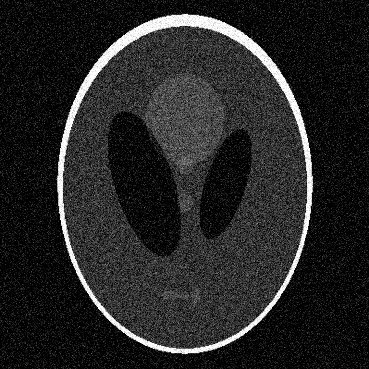
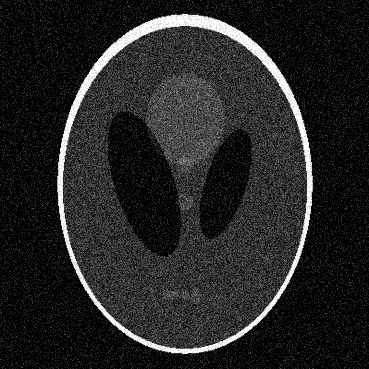
added edge rmse (temp)

diff --git a/models/FBP_noise.py b/models/FBP_noise.py
@@ -43,6 +43,23 @@ def FBP_window_solver(A, b, num_iterations=10, lambda_val=1.0, window_strength=0
 
     return x
 
+
+def edge_rmse(ref, recon):
+    sobel_ref_x = cv.Sobel(ref.astype(np.float32), cv.CV_64F, 1, 0, ksize=3)
+    sobel_ref_y = cv.Sobel(ref.astype(np.float32), cv.CV_64F, 0, 1, ksize=3)
+    edge_ref = np.sqrt(sobel_ref_x**2 + sobel_ref_y**2)
+
+    sobel_recon_x = cv.Sobel(recon.astype(np.float32), cv.CV_64F, 1, 0, ksize=3)
+    sobel_recon_y = cv.Sobel(recon.astype(np.float32), cv.CV_64F, 0, 1, ksize=3)
+    edge_recon = np.sqrt(sobel_recon_x**2 + sobel_recon_y**2)
+
+    edge_ref_norm = (edge_ref - np.min(edge_ref)) / (np.max(edge_ref) - np.min(edge_ref))
+    edge_recon_norm = (edge_recon - np.min(edge_recon)) / (np.max(edge_recon) - np.min(edge_recon))
+
+    rmse_edges = np.sqrt(np.mean((edge_ref_norm - edge_recon_norm)**2))
+    return rmse_edges
+
+
 def compute_rmse(a, b):
     return np.sqrt(np.mean((a - b)**2))
 
@@ -55,6 +72,7 @@ phantom = phantom.astype(np.float32) / 255.0
 ref = cv.resize(phantom, (n, n), interpolation=cv.INTER_AREA).flatten()
 ref_norm = (ref - np.min(ref)) / (np.max(ref) - np.min(ref))
 
+solver_iterations = 25
 w_iterations = [0, 1, 2, 3, 4, 5, 6, 7, 8, 9, 10, 11, 12, 13, 14, 15, 16, 17, 18, 19, 20, 21, 22, 23, 24, 25]
 w_strengths = [0.1, 0.2, 0.3, 0.4, 0.5, 0.6, 0.7, 0.8, 0.9, 1.0]
 
@@ -71,10 +89,10 @@ x_ref_corrected = np.flipud(x_ref.reshape(n, n)).flatten()
 x_ref_corrected = x_ref_corrected.astype(float)
 x_ref_norm = (x_ref_corrected - np.min(x_ref_corrected)) / (np.max(x_ref_corrected) - np.min(x_ref_corrected))
 
-sigmas = [0, 0.05, 0.1, 0.15]
+sigmas = [0, 0.05, 0.1]
 
-fig_imgs, axes_imgs = plt.subplots(2, len(sigmas), figsize=(3*len(sigmas), 7))
-fig_heatmaps, axes_heatmaps = plt.subplots(1, len(sigmas), figsize=(3*len(sigmas), 4))
+fig_imgs, axes_imgs = plt.subplots(3, len(sigmas), figsize=(3*len(sigmas), 10))
+fig_heatmaps, axes_heatmaps = plt.subplots(2, len(sigmas), figsize=(3*len(sigmas), 8))
 
 for i, sigma in enumerate(sigmas):
     noisy_image = phantom + np.random.normal(0, sigma, phantom.shape)
@@ -83,6 +101,7 @@ for i, sigma in enumerate(sigmas):
 
 
     rmses = np.zeros((len(w_iterations), len(w_strengths)))
+    edge_rmses = np.zeros((len(w_iterations), len(w_strengths)))
 
 
     fan_list = fan_setup(np.pi/4, no_beams=128)
@@ -94,29 +113,43 @@ for i, sigma in enumerate(sigmas):
                            resize=n)
 
     best_rmse = None
+    best_edge_rmse = None
     best_params = None
+    best_params_edge = None
 
     # Parameter sweep for window strength and iterations
     for j, w_iter in enumerate(w_iterations):
         for k, w_str in enumerate(w_strengths):
-            x_fbp = FBP_window_solver(A, b, num_iterations=25, lambda_val=0.8, window_strength=w_str, window_iterations=w_iter)
+            x_fbp = FBP_window_solver(A, b, num_iterations=solver_iterations, lambda_val=0.8, window_strength=w_str, window_iterations=w_iter)
             x_fbp_image = np.flipud(x_fbp.reshape(n, n))
             x_norm = (x_fbp_image - np.min(x_fbp_image)) / (np.max(x_fbp_image) - np.min(x_fbp_image))
             #x_norm = x_norm ** 1.5
             rmse = compute_rmse(ref_norm.flatten(), x_norm.flatten())
             rmses[j, k] = rmse
-            print(f"Window Iterations: {w_iter}, Window Strength: {w_str}, RMSE: {rmse:.4f}")
+            rmse_edg = edge_rmse(x_ref_norm.reshape(n, n), x_norm.reshape(n, n))
+            edge_rmses[j, k] = rmse_edg
+            print(f"Window Iterations: {w_iter}, Window Strength: {w_str}, RMSE: {rmse:.4f}, Edge RMSE: {rmse_edg:.4f}")
             if best_rmse is None or rmse < best_rmse:
                 best_rmse = rmse
                 best_params = (w_iter, w_str)
+            if best_edge_rmse is None or rmse_edg < best_edge_rmse:
+                best_edge_rmse = rmse_edg
+                best_params_edge = (w_iter, w_str)
 
     print(f"Best RMSE: {best_rmse:.4f} with parameters: {best_params}")
+    print(f"Best Edge RMSE: {best_edge_rmse:.4f} with parameters: {best_params_edge}")
 
     optimal_w_iter, optimal_w_str = best_params
-    x_fbp_optimal = FBP_window_solver(A, b, num_iterations=25, lambda_val=0.8, window_strength=optimal_w_str, window_iterations=optimal_w_iter)
+    x_fbp_optimal = FBP_window_solver(A, b, num_iterations=solver_iterations, lambda_val=0.8, window_strength=optimal_w_str, window_iterations=optimal_w_iter)
     x_fbp_image_optimal = np.flipud(x_fbp_optimal.reshape(n, n))
     x_norm_optimal = (x_fbp_image_optimal - np.min(x_fbp_image_optimal)) / (np.max(x_fbp_image_optimal) - np.min(x_fbp_image_optimal))
     x_norm_optimal = x_norm_optimal ** 1.5
+
+    optimal_w_iter_edge, optimal_w_str_edge = best_params_edge
+    x_fbp_optimal_edge = FBP_window_solver(A, b, num_iterations=solver_iterations, lambda_val=0.8, window_strength=optimal_w_str_edge, window_iterations=optimal_w_iter_edge)
+    x_fbp_image_optimal_edge = np.flipud(x_fbp_optimal_edge.reshape(n, n))
+    x_norm_optimal_edge = (x_fbp_image_optimal_edge - np.min(x_fbp_image_optimal_edge)) / (np.max(x_fbp_image_optimal_edge) - np.min(x_fbp_image_optimal_edge))
+    x_norm_optimal_edge = x_norm_optimal_edge ** 1.5
 
 
     axes_imgs[0,i].imshow(noisy_image, cmap='gray')
@@ -131,23 +164,33 @@ for i, sigma in enumerate(sigmas):
          ha='center', va='center', transform=axes_imgs[1,i].transAxes)
     axes_imgs[1,i].axis('off')
 
-    ax = axes_heatmaps[i]
-    im = ax.imshow(rmses, cmap='hot', 
-                   extent=[min(w_strengths), max(w_strengths), max(w_iterations), min(w_iterations)],
-                   aspect='auto',
-                   )
-    ax.set_title(f"σ={sigma}")
-    ax.set_xlabel("Window Strength")
-    ax.set_ylabel("Window Iterations")
-    fig_heatmaps.colorbar(im, ax=ax)
+    axes_imgs[2,i].imshow(x_norm_optimal_edge, cmap='gray')
+    axes_imgs[2,i].set_title('FBP Reconstruction (Edge-Optimized)')
+    axes_imgs[2,i].text(0.5, -0.15, f'Edge RMSE: {best_edge_rmse:.4f}\n Window Iterations: {optimal_w_iter_edge}\n Window Strength: {optimal_w_str_edge}', 
+         ha='center', va='center', transform=axes_imgs[2,i].transAxes)
+    axes_imgs[2,i].axis('off')
 
-    '''
-    axes_heatmaps[i].imshow(rmses, cmap='hot', extent=[min(w_strengths), max(w_strengths), max(w_iterations), min(w_iterations)], aspect='auto')
-    axes_heatmaps[i].set_title('RMSE Heatmap')
-    axes_heatmaps[i].set_xlabel('Window Strength')
-    axes_heatmaps[i].set_ylabel('Window Iterations')
-    axes_heatmaps[i].colorbar(label='RMSE')
-    '''
+    ax0 = axes_heatmaps[0,i]
+    im = ax0.imshow(rmses, cmap='hot', 
+                    extent=[min(w_strengths), max(w_strengths), max(w_iterations), min(w_iterations)],
+                    aspect='auto',
+                    )
+    ax0.set_title(f"σ={sigma}")
+    ax0.set_xlabel("Window Strength")
+    ax0.set_ylabel("Window Iterations")
+    
+    ax1 = axes_heatmaps[1,i]
+    im_edge = ax1.imshow(edge_rmses, cmap='hot',
+                    extent=[min(w_strengths), max(w_strengths), max(w_iterations), min(w_iterations)],
+                    aspect='auto',
+                    )
+    ax1.set_xlabel("Window Strength")
+    ax1.set_ylabel("Window Iterations")
+    fig_heatmaps.colorbar(im, ax=ax0)
+    fig_heatmaps.colorbar(im_edge, ax=ax1)
+
+
+   
     
 plt.tight_layout()
 fig_imgs.suptitle("Noisy Phantoms and FBP Reconstructions", fontsize=16)

diff --git a/models/FBP.py b/models/FBP.py
@@ -2,6 +2,7 @@ import numpy as np
 import cv2 as cv
 import matplotlib.pyplot as plt
 from fixed_model_new import fan_setup, ring_thing, ART_solver
+from scipy import ndimage
 
 def FBP_window_solver(A, b, num_iterations=10, lambda_val=1.0, window_strength=0.5, window_iterations=5):
     """
@@ -43,6 +44,22 @@ def FBP_window_solver(A, b, num_iterations=10, lambda_val=1.0, window_strength=0
 
     return x
 
+
+def edge_rmse(ref, recon):
+    sobel_ref_x = cv.Sobel(ref.astype(np.float32), cv.CV_64F, 1, 0, ksize=3)
+    sobel_ref_y = cv.Sobel(ref.astype(np.float32), cv.CV_64F, 0, 1, ksize=3)
+    edge_ref = np.sqrt(sobel_ref_x**2 + sobel_ref_y**2)
+
+    sobel_recon_x = cv.Sobel(recon.astype(np.float32), cv.CV_64F, 1, 0, ksize=3)
+    sobel_recon_y = cv.Sobel(recon.astype(np.float32), cv.CV_64F, 0, 1, ksize=3)
+    edge_recon = np.sqrt(sobel_recon_x**2 + sobel_recon_y**2)
+
+    edge_ref_norm = (edge_ref - np.min(edge_ref)) / (np.max(edge_ref) - np.min(edge_ref))
+    edge_recon_norm = (edge_recon - np.min(edge_recon)) / (np.max(edge_recon) - np.min(edge_recon))
+
+    rmse_edges = np.sqrt(np.mean((edge_ref_norm - edge_recon_norm)**2))
+    return rmse_edges
+
 def compute_rmse(a, b):
     return np.sqrt(np.mean((a - b)**2))
 
@@ -56,16 +73,19 @@ ref = cv.resize(phantom, (n, n), interpolation=cv.INTER_AREA).flatten()
 ref_norm = (ref - np.min(ref)) / (np.max(ref) - np.min(ref))
 
 
-sigma = 0.025
+sigma = 0.05
 noisy_image = phantom + np.random.normal(0, sigma, phantom.shape)
 noisy_image = np.clip(noisy_image, 0, 1)
 cv.imwrite("test_images/temp_noisy.png", (noisy_image * 255).astype(np.uint8))
 
 w_iterations = [0, 1, 2, 3, 4, 5, 6, 7, 8, 9, 10, 11, 12, 13, 14, 15, 16, 17, 18, 19, 20, 21, 22, 23, 24, 25]
+#w_iterations = [0, 5, 10, 15, 20]
+
 w_strengths = [0.1, 0.2, 0.3, 0.4, 0.5, 0.6, 0.7, 0.8, 0.9, 1.0]
+#w_strengths = [0.2, 0.4, 0.6, 0.8, 1.0]
 
 rmses = np.zeros((len(w_iterations), len(w_strengths)))
-
+edge_rmses = np.zeros((len(w_iterations), len(w_strengths)))
 
 #High resolution reconstruction for reference
 fan_list_ref = fan_setup(np.pi/4, 256)
@@ -89,7 +109,9 @@ A, b, img = ring_thing(fan_list,
                            resize=n)
 
 best_rmse = None
+best_edge_rmse = None
 best_params = None
+best_params_edge = None
 
 # Parameter sweep for window strength and iterations
 for i, w_iter in enumerate(w_iterations):
@@ -99,43 +121,71 @@ for i, w_iter in enumerate(w_iterations):
         x_norm = (x_fbp_image - np.min(x_fbp_image)) / (np.max(x_fbp_image) - np.min(x_fbp_image))
         #x_norm = x_norm ** 1.5
         rmse = compute_rmse(x_ref_norm.flatten(), x_norm.flatten())
+        edg_rmse = edge_rmse(x_ref_norm.reshape(n, n), x_norm.reshape(n, n))
         rmses[i, j] = rmse
+        edge_rmses[i, j] = edg_rmse
         print(f"Window Iterations: {w_iter}, Window Strength: {w_str}, RMSE: {rmse:.4f}")
         if best_rmse is None or rmse < best_rmse:
             best_rmse = rmse
             best_params = (w_iter, w_str)
+        if best_edge_rmse is None or edg_rmse < best_edge_rmse:
+            best_edge_rmse = edg_rmse
+            best_params_edge = (w_iter, w_str)
 
 print(f"Best RMSE: {best_rmse:.4f} with parameters: {best_params}")
+print(f"Best Edge RMSE: {best_edge_rmse:.4f} with parameters: {best_params_edge}")
 
 optimal_w_iter, optimal_w_str = best_params
-x_fbp_optimal = FBP_window_solver(A, b, num_iterations=20, lambda_val=0.8, window_strength=optimal_w_str, window_iterations=optimal_w_iter)
+x_fbp_optimal = FBP_window_solver(A, b, num_iterations=25, lambda_val=0.8, window_strength=optimal_w_str, window_iterations=optimal_w_iter)
 x_fbp_image_optimal = np.flipud(x_fbp_optimal.reshape(n, n))
 x_norm_optimal = (x_fbp_image_optimal - np.min(x_fbp_image_optimal)) / (np.max(x_fbp_image_optimal) - np.min(x_fbp_image_optimal))
 x_norm_optimal = x_norm_optimal ** 1.5
 
+optimal_w_iter_edge, optimal_w_str_edge = best_params_edge
+x_fbp_optimal_edge = FBP_window_solver(A, b, num_iterations=25, lambda_val=0.8, window_strength=optimal_w_str_edge, window_iterations=optimal_w_iter_edge)
+x_fbp_image_optimal_edge = np.flipud(x_fbp_optimal_edge.reshape(n, n))
+x_norm_optimal_edge = (x_fbp_image_optimal_edge - np.min(x_fbp_image_optimal_edge)) / (np.max(x_fbp_image_optimal_edge) - np.min(x_fbp_image_optimal_edge))
+x_norm_optimal_edge = x_norm_optimal_edge ** 1.5
 
 
-plt.figure(figsize=(8,4))
-plt.subplot(1,2,1)
+
+plt.figure(figsize=(12,4))
+plt.subplot(1,3,1)
 plt.imshow(noisy_image, cmap='gray')
 plt.title('Original  Noisy Phantom')
 plt.text(0.5, -0.1, f'Noise Std Dev: {sigma}', ha='center', va='center', transform=plt.gca().transAxes)
 plt.axis('off')
 
-plt.subplot(1,2,2)
+plt.subplot(1,3,2)
 plt.imshow(x_norm_optimal, cmap='gray')
 plt.title('FBP Reconstruction')
 #plt.xlabel(f'RMSE: {best_rmse:.4f}, Window Iterations: {optimal_w_iter}, Window Strength: {optimal_w_str}')
-plt.text(0.5, -0.1, f'RMSE: {best_rmse:.4f}, Window Iterations: {optimal_w_iter}, Window Strength: {optimal_w_str}', 
+plt.text(0.5, -0.1, f'RMSE: {best_rmse:.4f}\n Window Iterations: {optimal_w_iter}\n Window Strength: {optimal_w_str}', 
+         ha='center', va='center', transform=plt.gca().transAxes)
+plt.axis('off')
+
+plt.subplot(1,3,3)
+plt.imshow(x_norm_optimal_edge, cmap='gray')
+plt.title('FBP Reconstruction (Edge-Optimized)')
+plt.text(0.5, -0.1, f'Edge RMSE: {best_edge_rmse:.4f}\n Window Iterations: {optimal_w_iter_edge}\n Window Strength: {optimal_w_str_edge}', 
          ha='center', va='center', transform=plt.gca().transAxes)
 plt.axis('off')
 
 plt.figure()
+plt.subplot(1,2,1)
 plt.imshow(rmses, cmap='hot', extent=[min(w_strengths), max(w_strengths), max(w_iterations), min(w_iterations)], aspect='auto')
 plt.title('RMSE Heatmap')
 plt.xlabel('Window Strength')
 plt.ylabel('Window Iterations')
 plt.colorbar(label='RMSE')
+
+plt.subplot(1,2,2)
+plt.imshow(edge_rmses, cmap='hot', extent=[min(w_strengths), max(w_strengths), max(w_iterations), min(w_iterations)], aspect='auto')
+plt.title('Edge RMSE Heatmap')
+plt.xlabel('Window Strength')
+plt.ylabel('Window Iterations')
+plt.colorbar(label='Edge RMSE')
+
 plt.tight_layout()
 
 plt.show()
